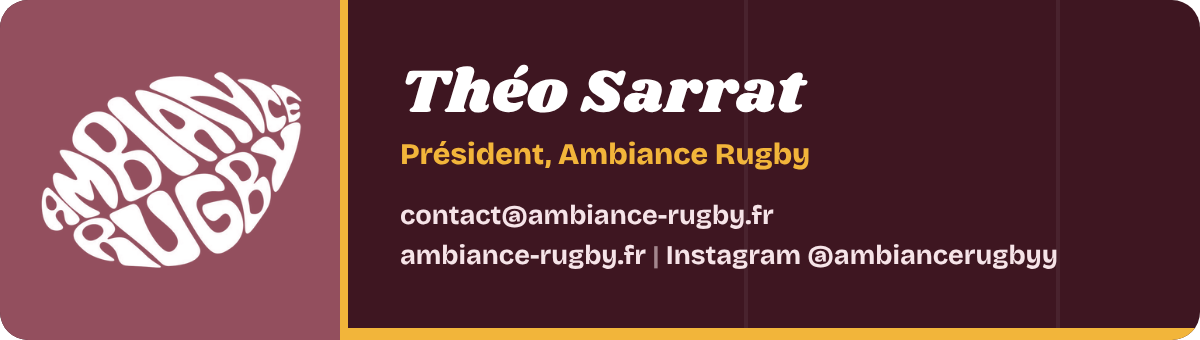
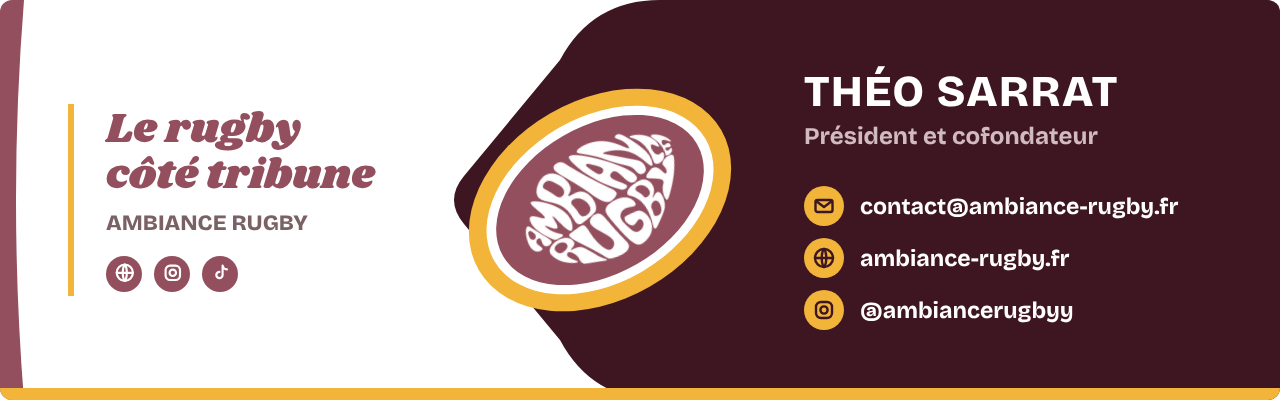
Signature mail : bannière façon modèle pro (panneau bordeaux, cadre ballon, icônes)
Claude-Session: https://claude.ai/code/session_01RZx3c7Kc5zeExxhfVQT62G

diff --git a/public/signature/theo.html b/public/signature/theo.html
@@ -3,7 +3,7 @@
 <title>Signature mail</title>
 <style>body{margin:0;padding:32px 16px;background:#fcf7f8;font-family:Arial,Helvetica,sans-serif;color:#2a1419}.boite{max-width:660px;margin:0 auto}.carte{background:#fff;border:1px solid #ecd9dd;border-radius:16px;padding:24px}button{margin-top:16px;font:700 16px Arial,sans-serif;background:#934f5e;color:#fff;border:0;border-radius:999px;padding:12px 22px;cursor:pointer}p.aide{color:#7a6166;font-size:14px;line-height:1.5}</style></head>
 <body><div class="boite">
-<div class="carte" id="sig"><a href="https://ambiance-rugby.fr" style="text-decoration:none"><img src="https://ambiance-rugby.fr/signature/banniere.png" width="600" height="170" alt="Théo Sarrat, Président, Ambiance Rugby. contact@ambiance-rugby.fr, ambiance-rugby.fr, Instagram @ambiancerugbyy" style="display:block;border:0;width:100%;max-width:600px;height:auto"></a></div>
+<div class="carte" id="sig"><a href="https://ambiance-rugby.fr" style="text-decoration:none"><img src="https://ambiance-rugby.fr/signature/banniere.png?v=2" width="640" height="200" alt="Théo Sarrat, Président, Ambiance Rugby. contact@ambiance-rugby.fr, ambiance-rugby.fr, Instagram @ambiancerugbyy" style="display:block;border:0;width:100%;max-width:640px;height:auto"></a></div>
 <button onclick="copier()">Copier la signature</button>
 <p class="aide" id="msg">Puis colle-la dans les réglages de signature de ta messagerie (Gmail, Outlook, Mail sur iPhone).</p>
 </div>
